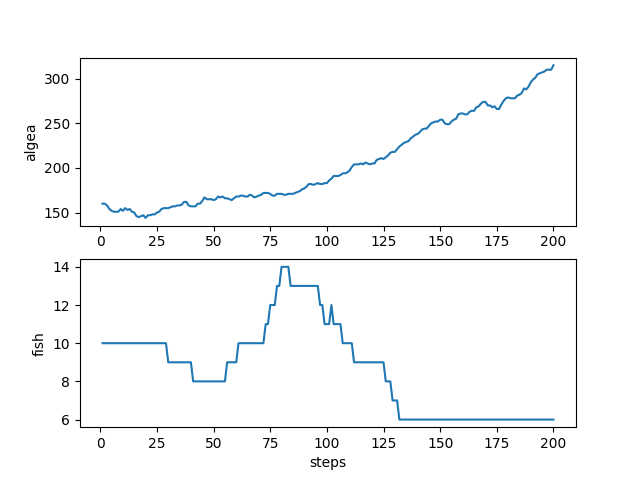
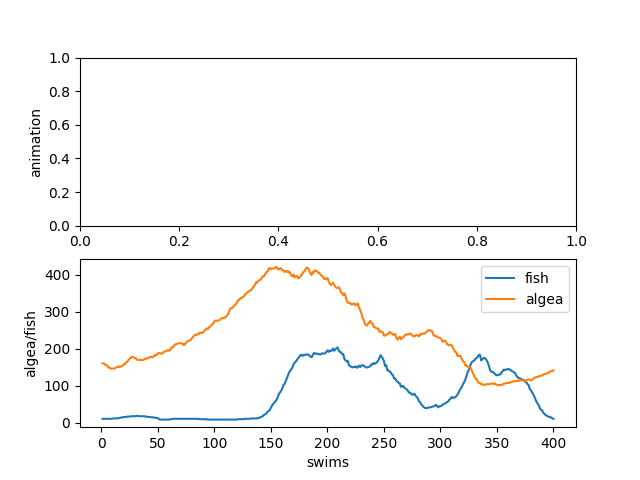
improved visualisation

diff --git a/fish.py b/fish.py
@@ -17,6 +17,7 @@ from mesa.space import MultiGrid
 from mesa.datacollection import DataCollector
 from PIL import Image
 from matplotlib.offsetbox import OffsetImage, AnnotationBbox
+from pyparsing import counted_array
     
 class Fish(Agent):
     "class Fish makes an agent of the fish"
@@ -132,7 +133,7 @@ class Fish(Agent):
         fish = Fish(self.model.next_id(), self.model)
         self.model.schedule.add(fish)
         self.model.grid.place_agent(fish, self.pos)
-        self.energy -= 10
+        self.energy -= 5
 
 
 class Algea(Agent):
@@ -167,9 +168,9 @@ class Algea(Agent):
         random_growth = random.randint(0, 1000)
 
         if self.model.light_strength >= 30 and self.model.light_strength <= 60:
-            if growth < 5:
+            if growth < 8:
                 self.grow()
-            if random_growth < 4:
+            if random_growth < 5:
                 self.random_grow()
         
         if self.model.light_strength < 30:
@@ -307,8 +308,8 @@ if __name__ == "__main__":
 
 
 
-    for i in range(200):
-        print(i)
+    for i in range(400):
+    #     print(i)
     # while tank.no_fish():
         # tank.step()
         algea.append(tank.algea_counting())
@@ -323,11 +324,12 @@ if __name__ == "__main__":
         tank.step()
         
         counter +=1
+        print(counter)
         counter_list.append(counter)
 
-    # save the animation of the fishtank
+    # # save the animation of the fishtank
     ani = animation.ArtistAnimation(fig, ims, interval = 200, blit = True, repeat_delay= 1000)
-    # ani2 = animation.ArtistAnimation(fig, ims2, interval = 200, blit = True, repeat_delay= 1000)
+    # # ani2 = animation.ArtistAnimation(fig, ims2, interval = 200, blit = True, repeat_delay= 1000)
 
     plt.xticks(size = 0)
     plt.yticks(size = 0)
@@ -338,17 +340,22 @@ if __name__ == "__main__":
     # ani2.save("save.gif")
 
 
-    print(algea)
-    print(fish)
+    # print(algea)
+    # print(fish)
 
     # plot the algea and fish values
-    plt.figure(1)
+    # plt.figure(1)
     plt.subplot(211)
-    plt.plot(counter_list, algea)
-    plt.ylabel('algea')
+    # save the animation of the fishtank
+    # ani = animation.ArtistAnimation(fig, ims, interval = 200, blit = True, repeat_delay= 1000)
+    # plt.plot(counter_list, algea)
+    plt.ylabel('animation')
+    
     plt.subplot(212)
-    plt.plot(counter_list, fish)
-    plt.xlabel('steps')
-    plt.ylabel('fish')
+    plt.plot(counter_list, fish, label = 'fish')
+    plt.plot(counter_list, algea, label = 'algea')
+    plt.legend()
+    plt.xlabel('swims')
+    plt.ylabel('algea/fish')
 
     plt.savefig('plot.png')
